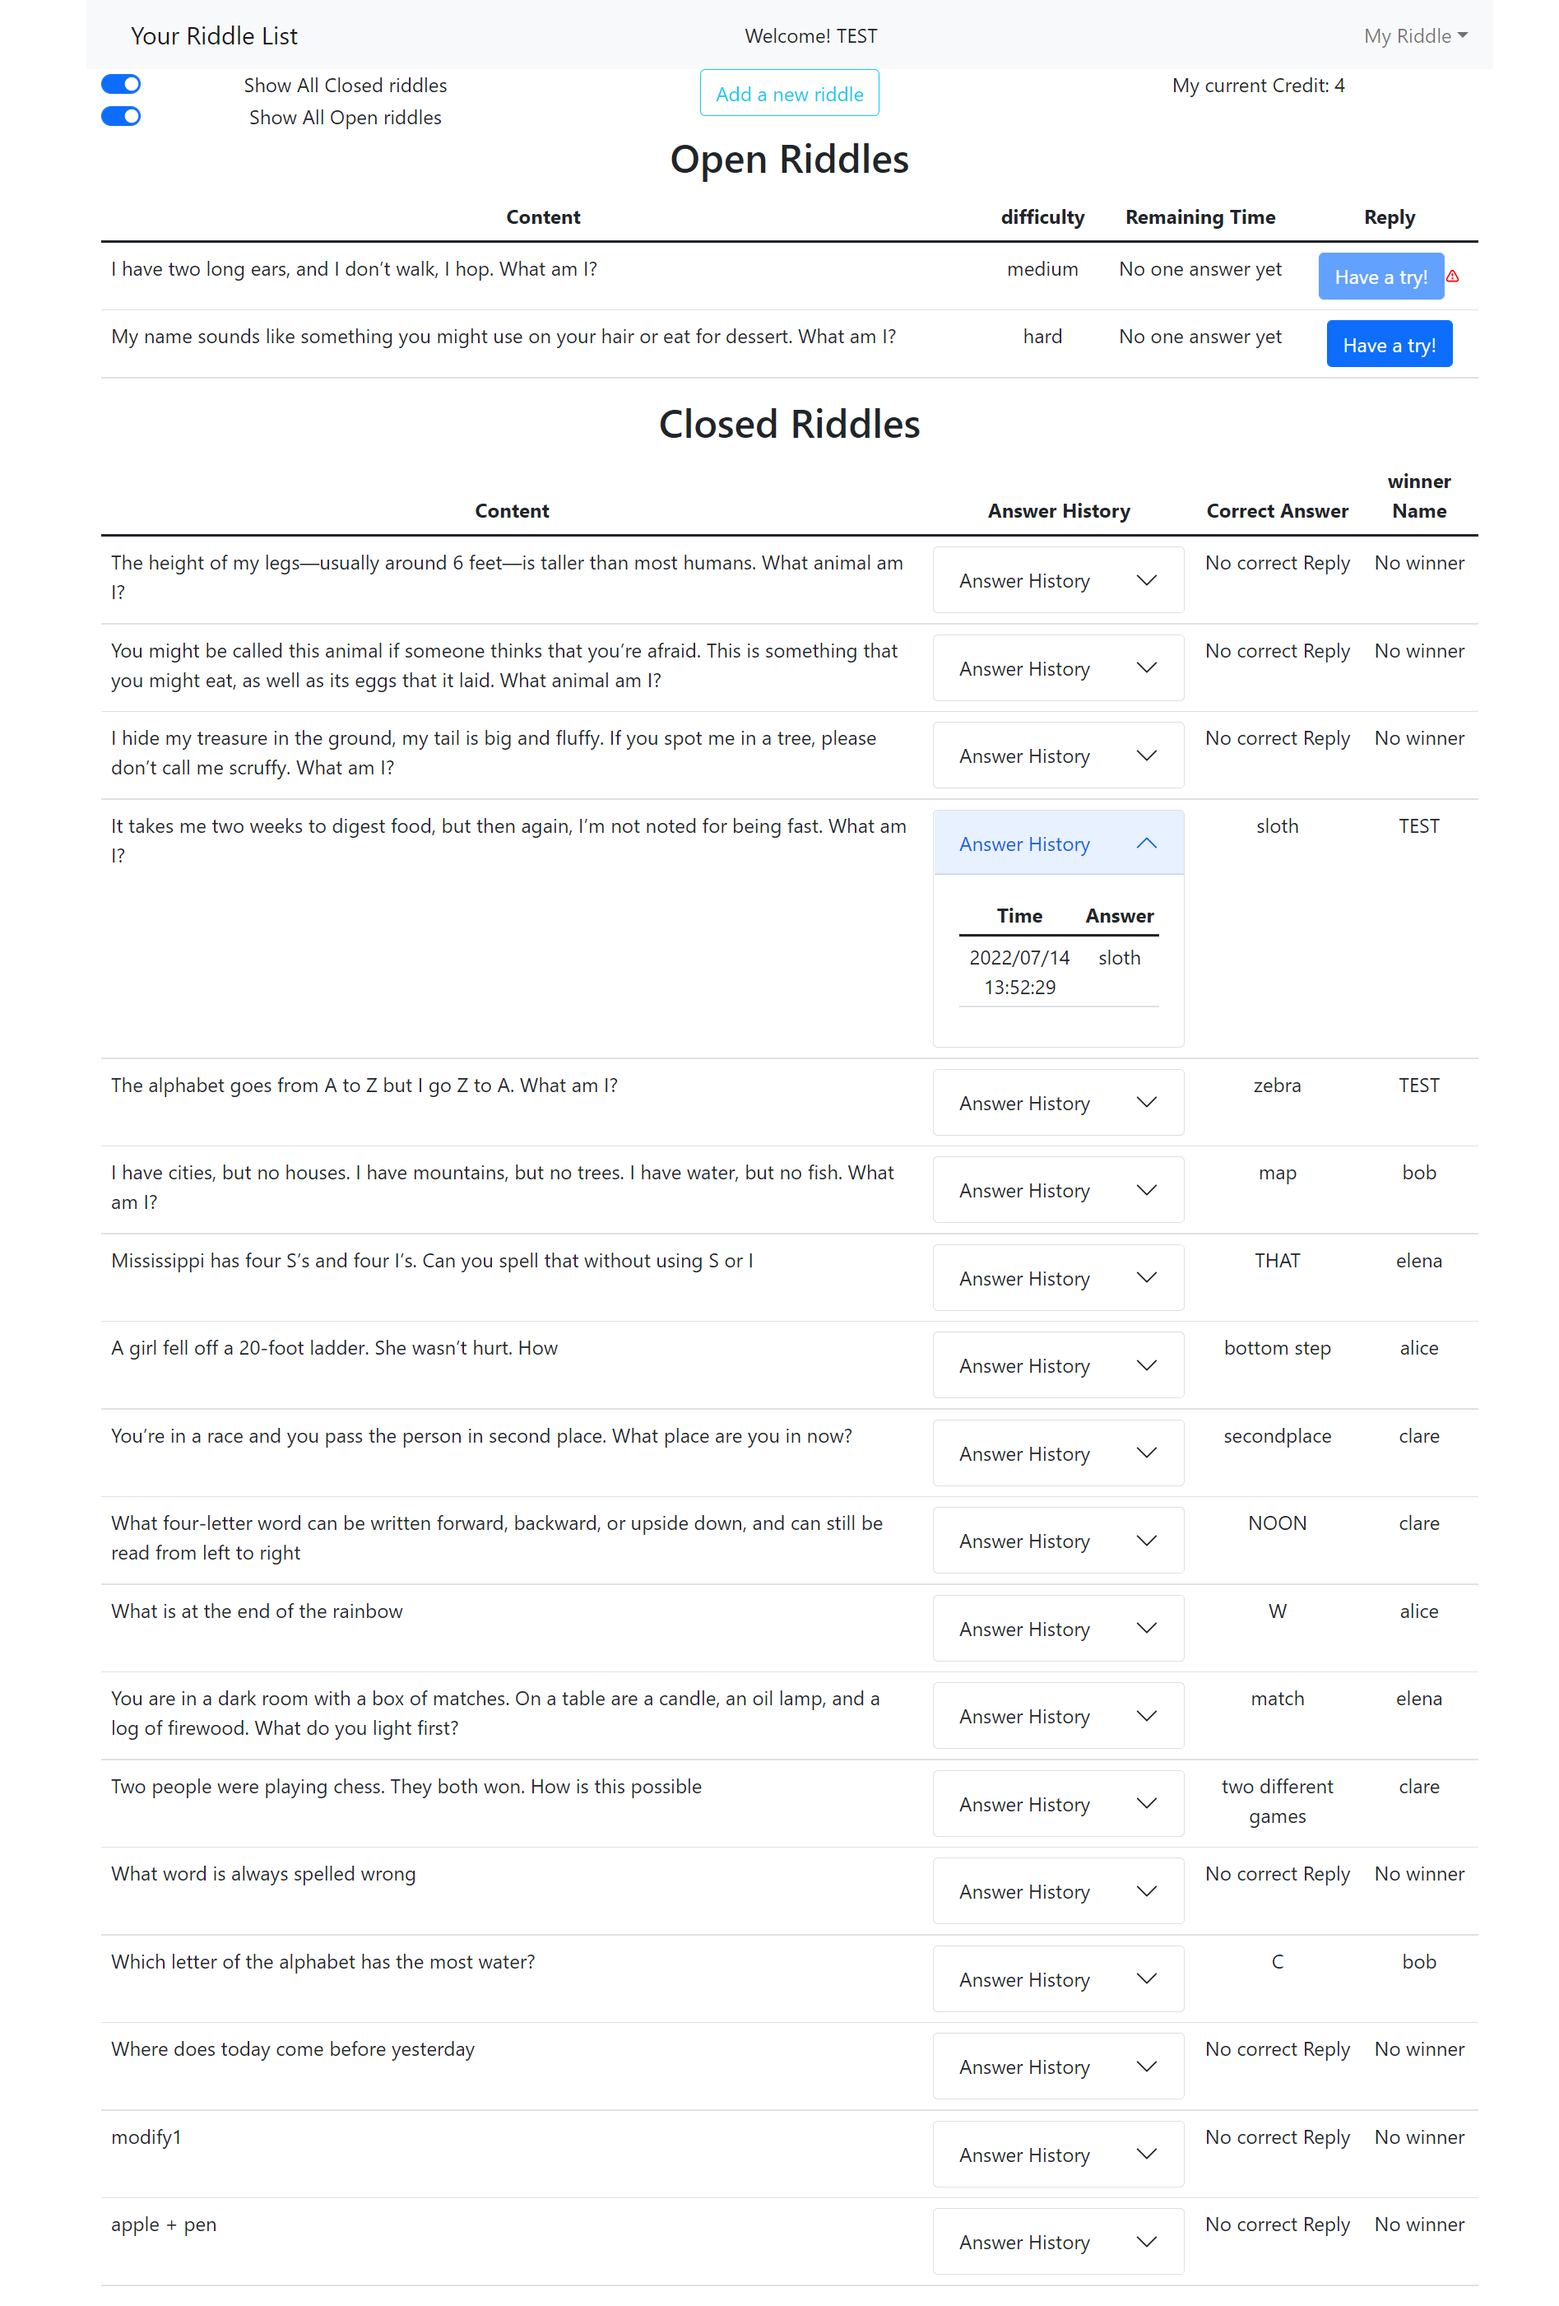
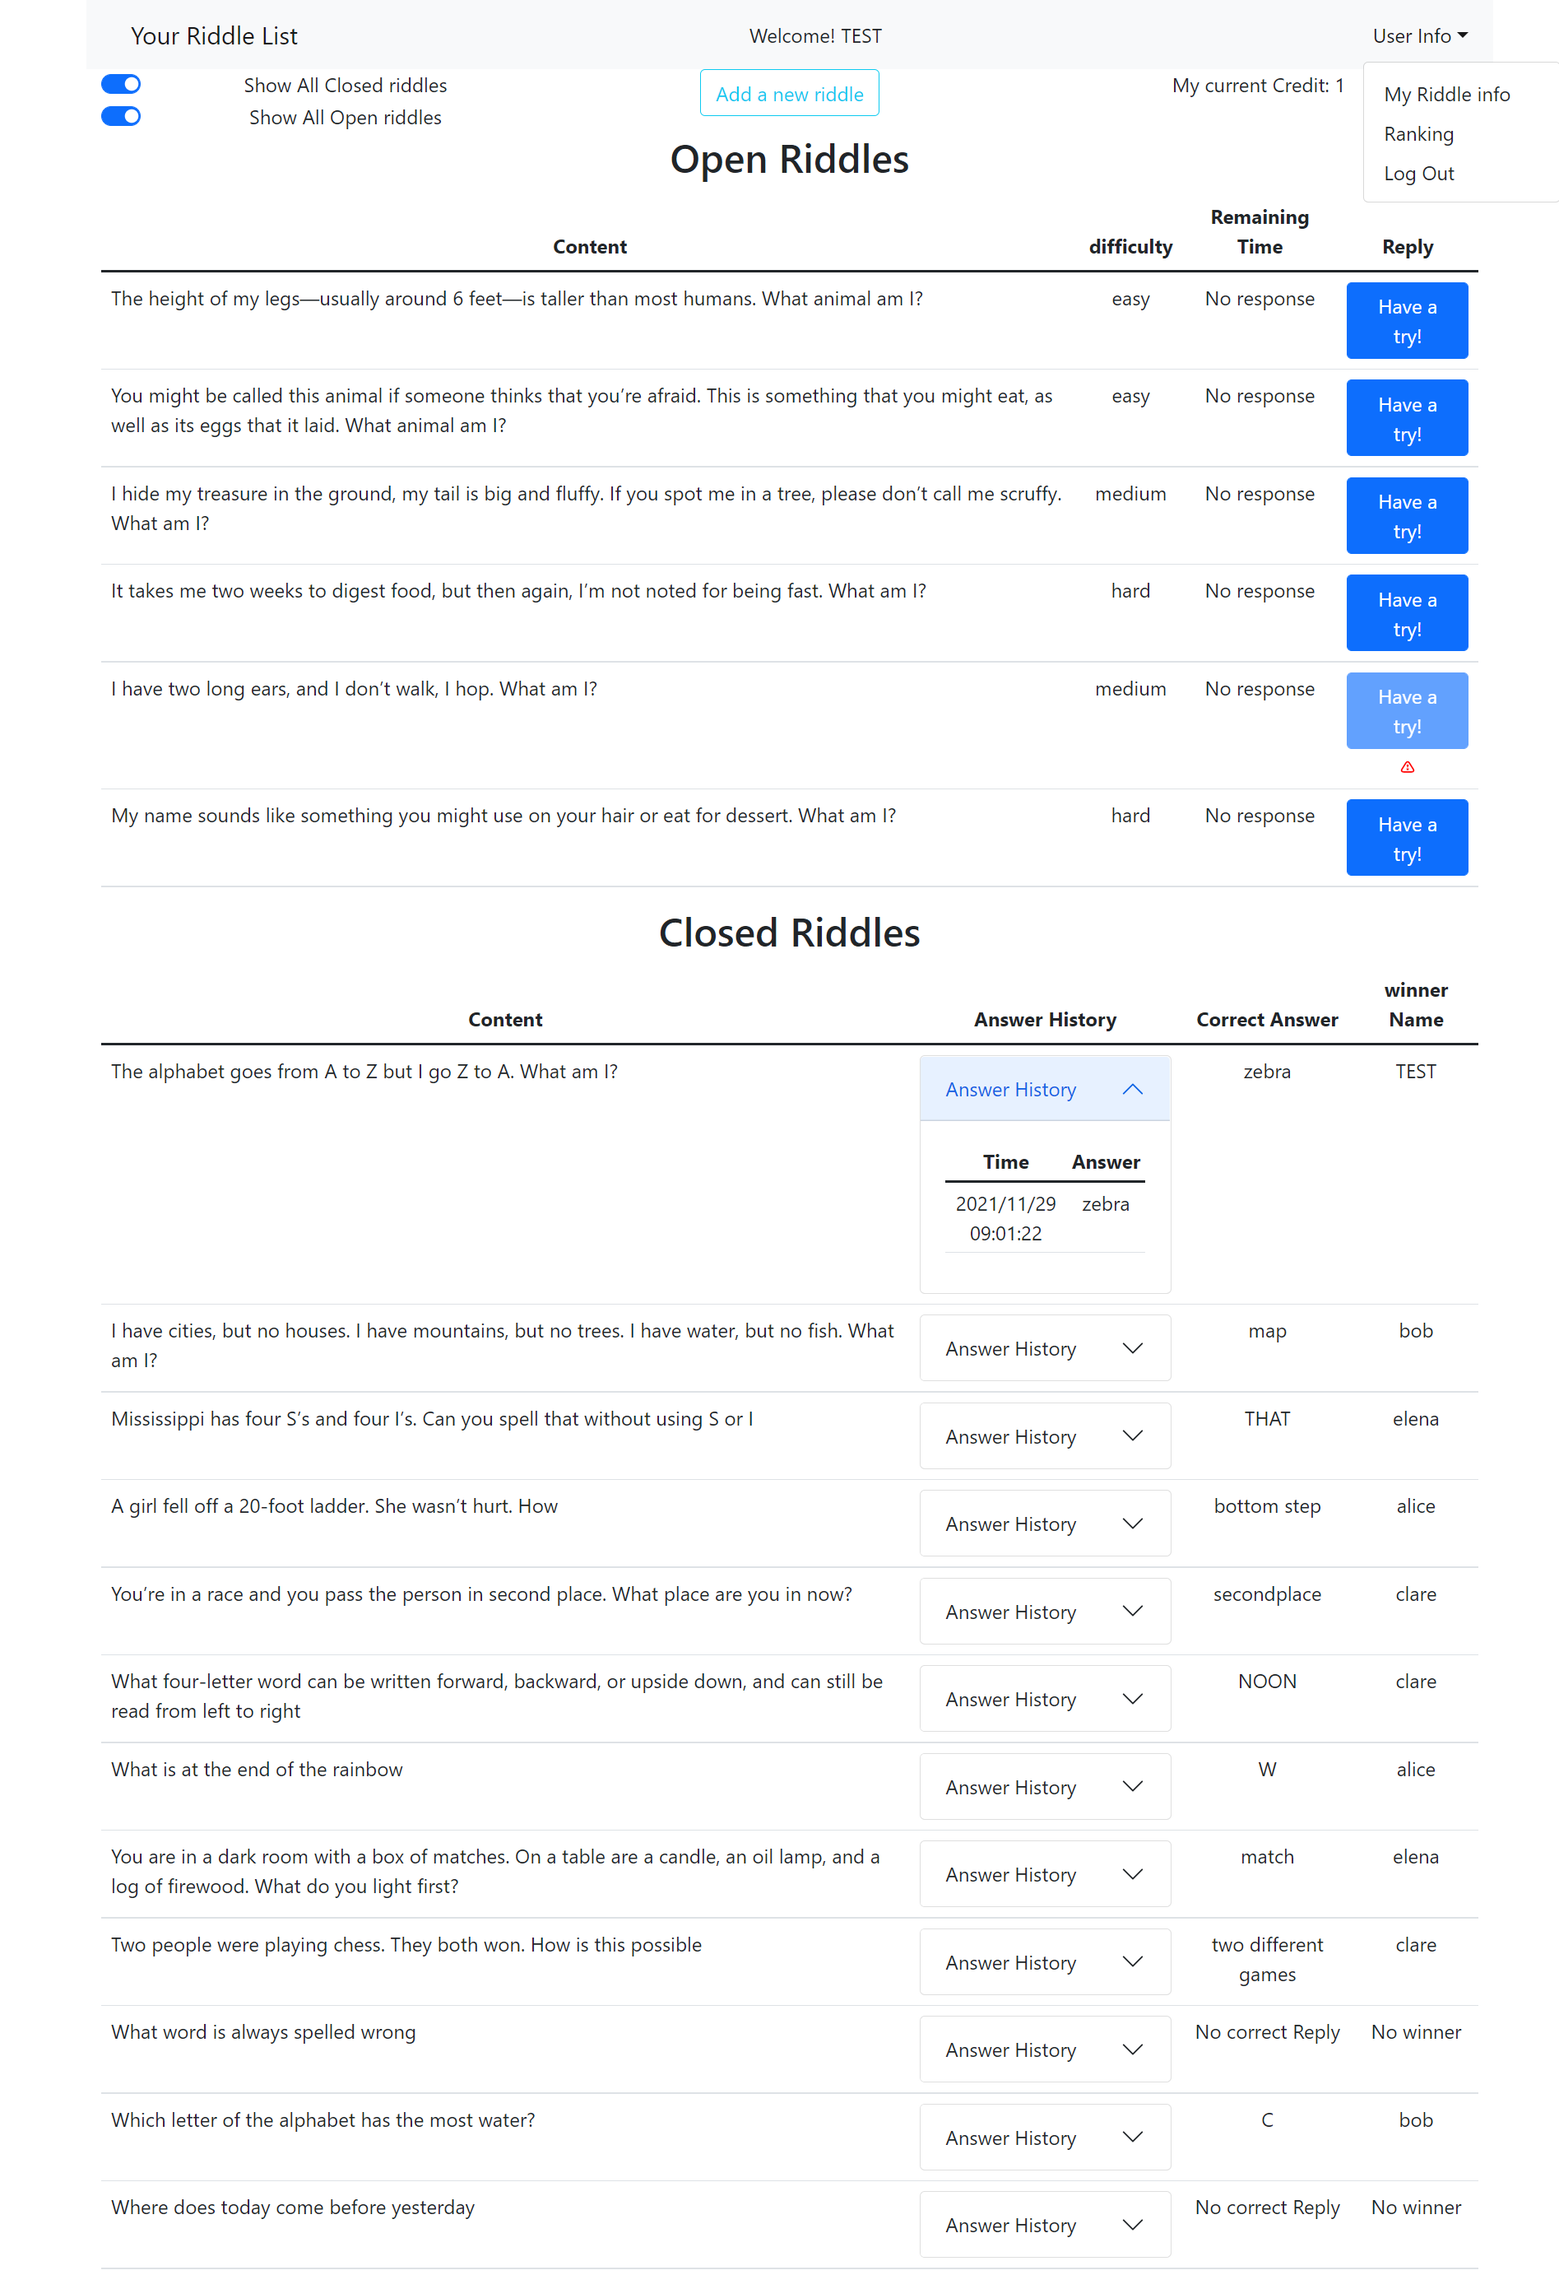
updateScreenShot

diff --git a/client/src/component/ClosedRiddlesTable.js b/client/src/component/ClosedRiddlesTable.js
@@ -1,6 +1,7 @@
 import { Table, Accordion } from "react-bootstrap";
 import "bootstrap/dist/css/bootstrap.min.css";
 import { useState } from "react";
+import dayjs from "dayjs";
 
 import API from "../API";
 
@@ -100,9 +101,10 @@ const CloseRData = (props) => {
   );
 };
 const HistoryRow = (props) => {
+  let renderTime = dayjs(props.info.answerTime).format("DD/MM/YYYY HH:mm:ss");
   return (
     <>
-      <td>{props.info.answerTime}</td>
+      <td>{renderTime}</td>
       <td>{props.info.answer}</td>
     </>
   );

diff --git a/client/src/component/MyOpenRiddlesTable.js b/client/src/component/MyOpenRiddlesTable.js
@@ -116,9 +116,10 @@ const OpenRData = (props) => {
 };
 
 const HistoryRow = (props) => {
+  let renderTime = dayjs(props.info.answerTime).format("DD/MM/YYYY HH:mm:ss");
   return (
     <>
-      <td>{props.info.answerTime}</td>
+      <td>{renderTime}</td>
       <td>{props.info.answer}</td>
     </>
   );
